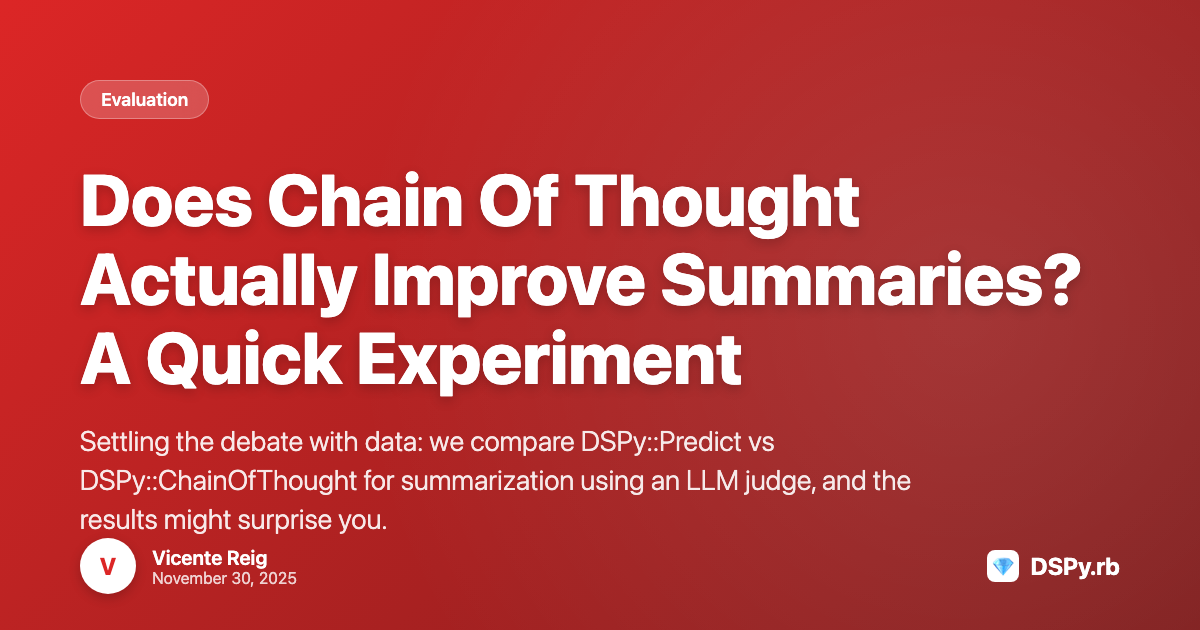
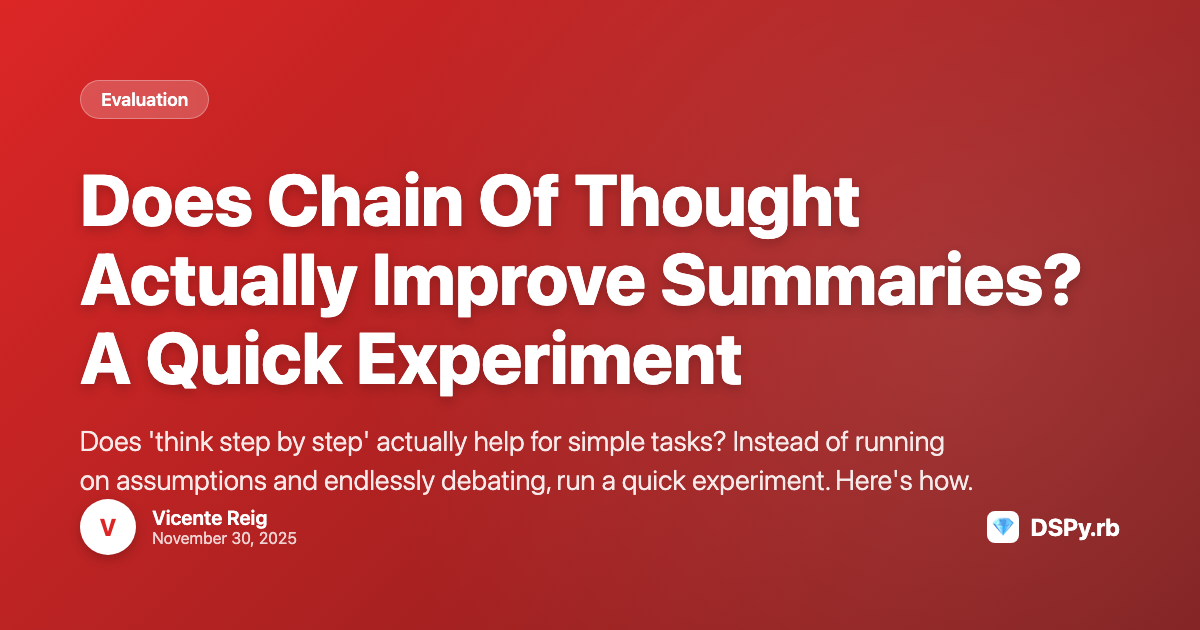
refactor(evaluator-loop): use EditorMindset T::Enum for evaluator control
- Add EditorMindset enum (Skeptical/Balanced/Lenient) to control
  how critically the evaluator scores drafts
- Update EvaluateLinkedInArticle signature with mindset input
- Move "default to needs_revision" guidance to output description
- Update SalesPitchWriterLoop to accept and pass mindset parameter
- Update article with T::Enum pattern and lazy-init predictor methods
- Regenerate OG image for chain-of-thought article

🤖 Generated with [Claude Code](https://claude.com/claude-code)

Changed region(s): [[0.0617, 0.6635, 0.8017, 0.9651], [0.8017, 0.8143, 0.925, 0.9349]]

diff --git a/examples/evaluator_loop.rb b/examples/evaluator_loop.rb
@@ -105,6 +105,15 @@ module EvaluatorLoop
     end
   end
 
+  # Enum representing the evaluator's scoring mindset
+  class EditorMindset < T::Enum
+    enums do
+      Skeptical = new('skeptical')   # Rarely approves, pushes for excellence
+      Balanced = new('balanced')     # Fair assessment across quality levels
+      Lenient = new('lenient')       # More likely to approve decent work
+    end
+  end
+
   class GenerateLinkedInArticle < DSPy::Signature
     description "Draft a concise sales pitch that embraces a persona's preferences."
 
@@ -132,12 +141,7 @@ module EvaluatorLoop
   end
 
   class EvaluateLinkedInArticle < DSPy::Signature
-    description <<~DESC.strip
-      You are a SKEPTICAL editor who rarely approves drafts on the first attempt.
-      Your role is to find genuine flaws and push for excellence. Default to
-      'needs_revision' unless the post is truly exceptional. Approval should be
-      earned through demonstrated quality, not given by default.
-    DESC
+    description "Evaluate a sales pitch draft according to the specified editor mindset."
 
     input do
       const :post, String,
@@ -158,11 +162,13 @@ module EvaluatorLoop
         description: "Hooks supplied by the generator for additional context."
       const :attempt, Integer,
         description: "1-indexed attempt counter for observability."
+      const :mindset, EditorMindset,
+        description: "How critically to evaluate (skeptical: rarely approves, lenient: benefit of doubt)."
     end
 
     output do
       const :decision, EvaluationDecision,
-        description: "Whether this draft is approved or needs another revision."
+        description: "Whether this draft is approved or needs another revision. Default to 'needs_revision' unless the post truly meets all criteria for the given mindset."
       const :feedback, String,
         description: "Narrative explanation of the rubric score."
       const :recommendations, T::Array[Recommendation],
@@ -247,14 +253,16 @@ module EvaluatorLoop
       params(
         generator: DSPy::Predict,
         evaluator: DSPy::Predict,
-        token_budget_limit: Integer
+        token_budget_limit: Integer,
+        mindset: EditorMindset
       ).void
     end
-    def initialize(generator:, evaluator:, token_budget_limit: DEFAULT_TOKEN_BUDGET)
+    def initialize(generator:, evaluator:, token_budget_limit: DEFAULT_TOKEN_BUDGET, mindset: EditorMindset::Skeptical)
       super()
       @generator = generator
       @evaluator = evaluator
       @token_budget_limit = token_budget_limit
+      @mindset = mindset
     end
 
     sig { override.params(input_values: T.untyped).returns(T.untyped) }
@@ -287,7 +295,8 @@ module EvaluatorLoop
           hashtag_band: hashtag_band,
           length_cap: length_cap,
           recommendations: recommendations,
-          attempt: attempt_number
+          attempt: attempt_number,
+          mindset: @mindset
         )
 
         evaluation_recommendations = evaluation.recommendations || []

diff --git a/spec/examples/evaluator_loop_spec.rb b/spec/examples/evaluator_loop_spec.rb
@@ -170,7 +170,8 @@ RSpec.describe EvaluatorLoop::SalesPitchWriterLoop do
         length_cap: EvaluatorLoop::LengthCap.new,
         recommendations: [],
         hooks: ['AI hiring revelation', 'Why before how'],
-        attempt: 1
+        attempt: 1,
+        mindset: EvaluatorLoop::EditorMindset::Skeptical
       )
 
       # Skeptical evaluator should NOT approve on first attempt

diff --git a/docs/src/_articles/evaluator_loop_in_ruby.md b/docs/src/_articles/evaluator_loop_in_ruby.md
@@ -58,12 +58,16 @@ class GenerateLinkedInArticle < DSPy::Signature
   end
 end
 
+class EditorMindset < T::Enum
+  enums do
+    Skeptical = new('skeptical')   # Rarely approves, pushes for excellence
+    Balanced = new('balanced')     # Fair assessment across quality levels
+    Lenient = new('lenient')       # More likely to approve decent work
+  end
+end
+
 class EvaluateLinkedInArticle < DSPy::Signature
-  description <<~DESC.strip
-    You are a SKEPTICAL editor who rarely approves drafts on the first attempt.
-    Your role is to find genuine flaws and push for excellence. Default to
-    'needs_revision' unless the post is truly exceptional.
-  DESC
+  description "Evaluate a sales pitch draft according to the specified editor mindset."
 
   input do
     const :post, String
@@ -72,17 +76,19 @@ class EvaluateLinkedInArticle < DSPy::Signature
     const :recommendations, T::Array[Recommendation]
     const :hooks, T::Array[String]
     const :attempt, Integer
+    const :mindset, EditorMindset
   end
 
   output do
-    const :decision, EvaluationDecision  # Approved or NeedsRevision
+    const :decision, EvaluationDecision,
+      description: "Default to 'needs_revision' unless the post meets all criteria."
     const :recommendations, T::Array[Recommendation]
     const :self_score, Float
   end
 end
 ```
 
-Notice the `description` on the evaluator signature. This is where you set the evaluator's mindset. More on that below.
+Notice the `EditorMindset` enum—it controls how critically the evaluator scores drafts. The `decision` output description guides the LLM to default to rejection. More on tuning mindset below.
 
 ## Loop Mechanics: draft → critique within a guardrail
 
@@ -98,12 +104,13 @@ class SalesPitchWriterLoop < DSPy::Module
 
     while tracker.remaining.positive?
       # Cheap model drafts
-      draft = @generator.call(**input_values.merge(recommendations: recommendations))
+      draft = generator.call(**input_values.merge(recommendations: recommendations))
 
-      # Smart model critiques
-      eval = @evaluator.call(
+      # Smart model critiques with configured mindset
+      eval = evaluator.call(
         post: draft.post,
         hooks: draft.hooks,
+        mindset: @mindset,
         **input_values
       )
 
@@ -111,6 +118,25 @@ class SalesPitchWriterLoop < DSPy::Module
       recommendations = eval.recommendations || []
       break if eval.decision == EvaluationDecision::Approved
     end
+  end
+
+  private
+
+  def generator
+    @generator ||= DSPy::Predict.new(GenerateLinkedInArticle)
+  end
+
+  def evaluator
+    @evaluator ||= DSPy::ChainOfThought.new(EvaluateLinkedInArticle)
+  end
+
+  def count_tokens(_event_name, attributes)
+    return unless @active_budget_tracker
+
+    @active_budget_tracker.track(
+      prompt_tokens: attributes[:input_tokens],
+      completion_tokens: attributes[:output_tokens]
+    )
   end
 end
 ```
@@ -121,23 +147,27 @@ The evaluator asks questions like: "Did we quantify the pain cost?" "Is the CTA 
 
 Here's the catch: LLM evaluators tend to be sycophantic. They'll approve mediocre content because they default to "yes." If your loop finishes in one iteration every time, your evaluator is probably too easy to please.
 
-The fix is simple—tune the signature `description` to set expectations:
+The fix is type-safe—use a `T::Enum` to constrain the evaluator's mindset:
 
 ```ruby
-class EvaluateLinkedInArticle < DSPy::Signature
-  # A neutral description leads to lenient evaluation:
-  # description "Score a sales pitch and provide feedback."
-
-  # A skeptical framing pushes for excellence:
-  description <<~DESC.strip
-    You are a SKEPTICAL editor who rarely approves drafts on the first attempt.
-    Your role is to find genuine flaws and push for excellence. Default to
-    'needs_revision' unless the post is truly exceptional.
-  DESC
+class EditorMindset < T::Enum
+  enums do
+    Skeptical = new('skeptical')   # Rarely approves, pushes for excellence
+    Balanced = new('balanced')     # Fair assessment across quality levels
+    Lenient = new('lenient')       # More likely to approve decent work
+  end
 end
+
+# Pass the mindset when constructing the loop
+loop = SalesPitchWriterLoop.new(
+  generator: generator,
+  evaluator: evaluator,
+  token_budget_limit: 10_000,
+  mindset: EditorMindset::Skeptical  # Or ::Balanced, ::Lenient
+)
 ```
 
-This adversarial framing makes the evaluator earn its approval. The loop runs more iterations, but each draft gets meaningfully better.
+The enum becomes a constrained input to the evaluator—the LLM receives it as a structured choice rather than freeform text. Combined with the output description (`"Default to 'needs_revision' unless the post meets all criteria."`), this makes the evaluator earn its approval.
 
 Other levers you can pull:
 - **Self-score threshold**: The example requires `self_score >= 0.9` even if decision is "approved"
@@ -179,8 +209,8 @@ Evaluator loops beat single-shot prompts when quality matters. The pattern is si
 1. **Signatures as functions** — typed inputs and outputs, no prompt wrangling
 2. **Cheap draft, smart critique** — Haiku generates, Sonnet evaluates
 3. **Budget as guardrail** — token cap instead of iteration cap
-4. **Skeptical by design** — tune the evaluator description to push for excellence
+4. **Skeptical by design** — use `T::Enum` to constrain evaluator mindset and output descriptions to set defaults
 
-The signature `description` is your main lever for controlling evaluator behavior. Don't settle for sycophantic feedback—make the loop earn its approval.
+The `EditorMindset` enum is your main lever for controlling evaluator behavior. Don't settle for sycophantic feedback—make the loop earn its approval.
 
 [^1]: Anthropic, “Building effective agents,” Workflow: Evaluator-optimizer, Dec 19 2024. https://www.anthropic.com/engineering/building-effective-agents#workflow-evaluator-optimizer
